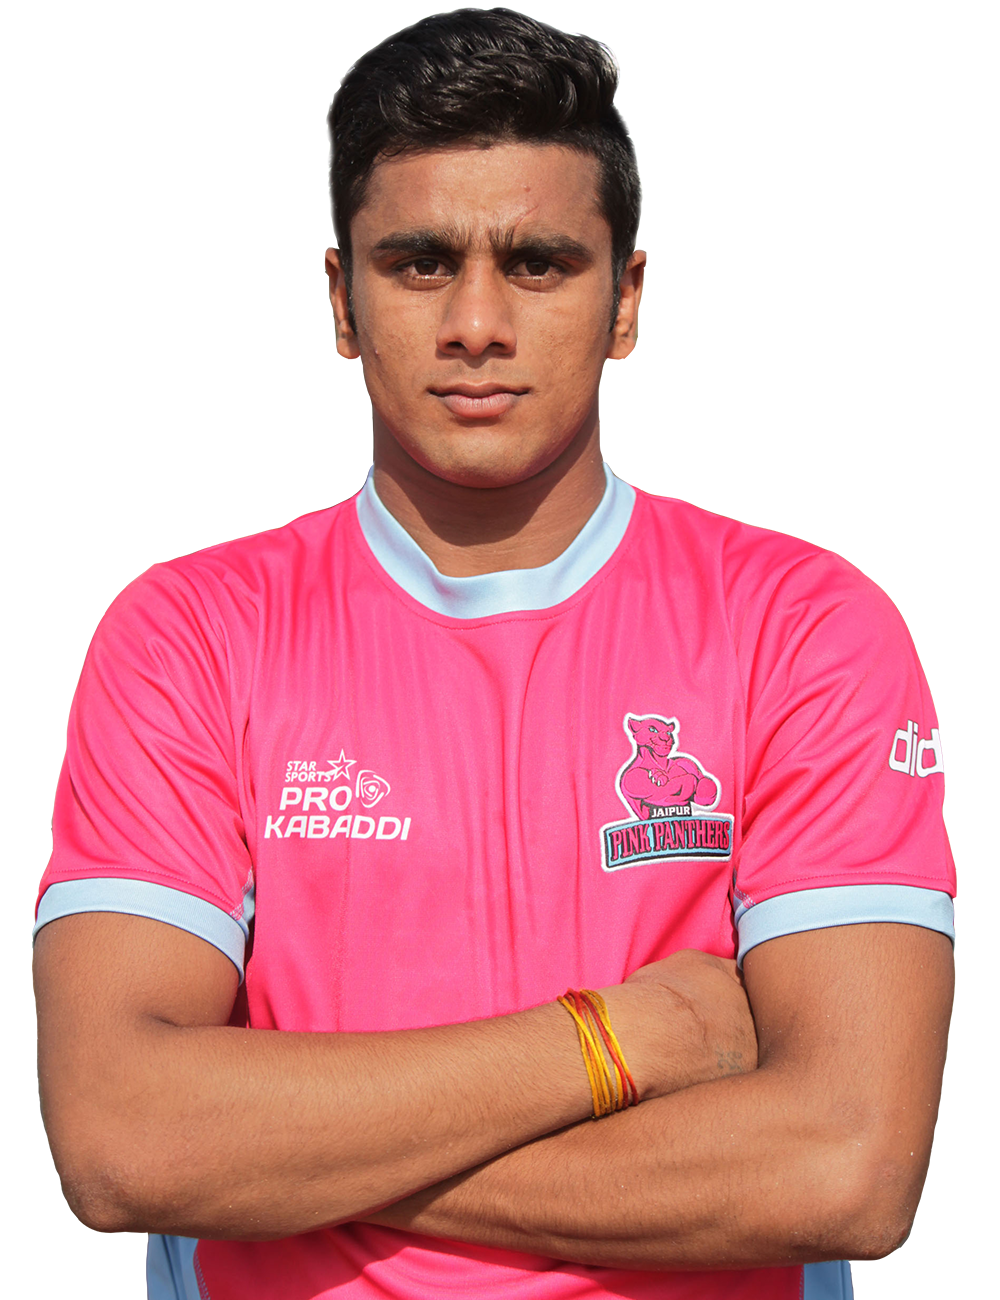
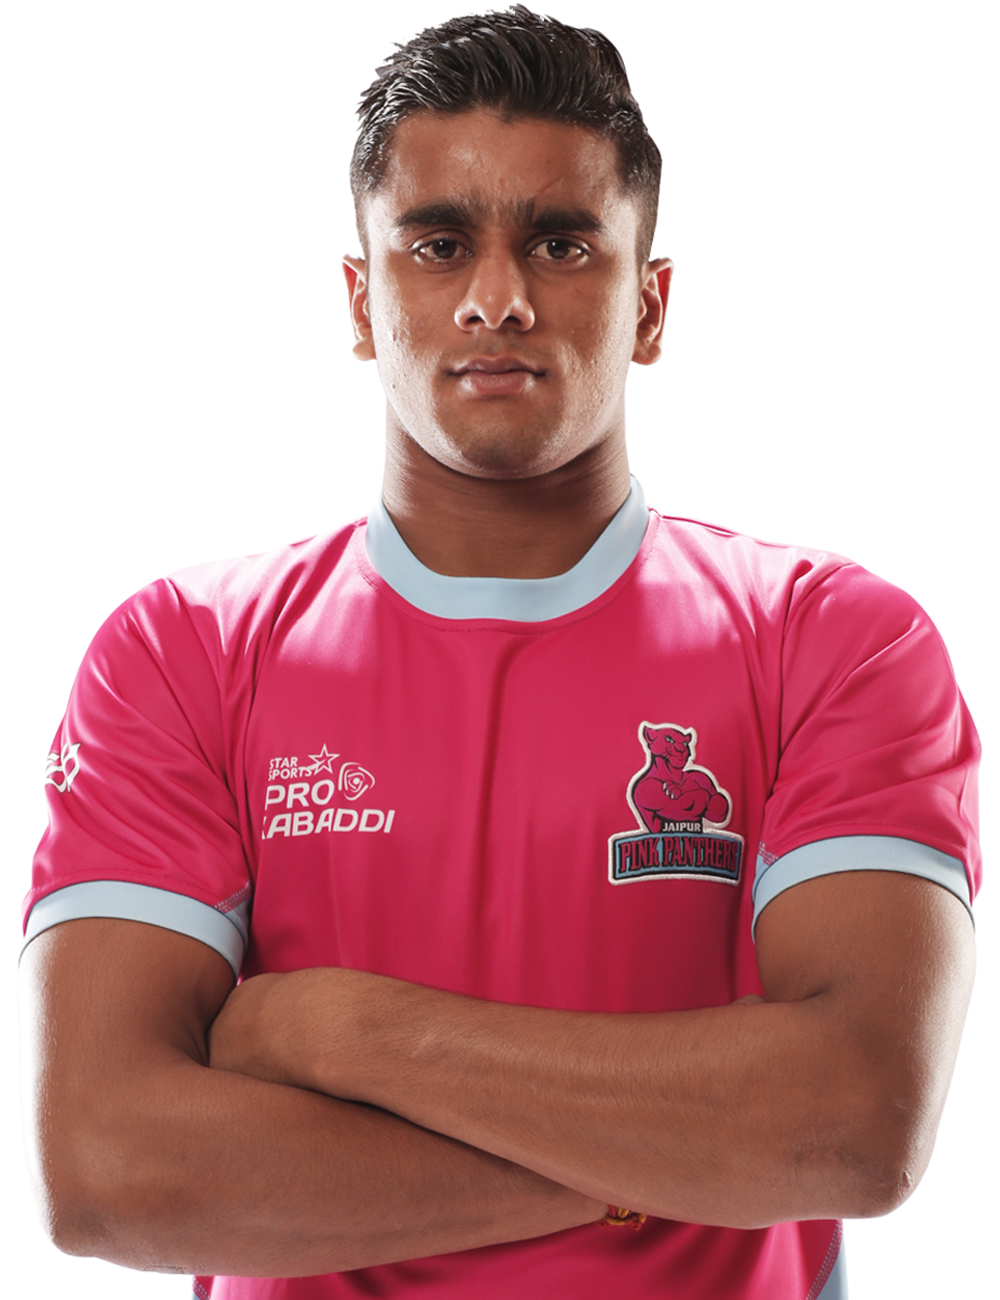
Changes done for image replace and name & state add.

diff --git a/js/language.js b/js/language.js
@@ -75,6 +75,7 @@ var LanguageEnglish = {
   "Defender,Left Corner":"Defender,Left Corner",
   "Defender,Right Corner":"Defender,Right Corner",
   "Native Place":"Native Place",
+  "State":"State",
   "Age":"Age",
   "Jersery Number":"Jersery Number",
   "Tournaments Played":"Tournaments Played",
@@ -281,7 +282,7 @@ var LanguageEnglish = {
 "Quiz Part 2":"Quiz Part 2",
 "Browse through the videos to know more about Jaipur Pink Panthers":"Browse through the videos to know more about Jaipur Pink Panthers",
 "Amit Nagar":"Amit Nagar",
-"Parvesh":"Parvesh",
+"Parvesh Malik":"Parvesh Malik",
 "Parveen Narwal":"Parveen Narwal",
 "David Tsai":"David Tsai",
 "Shabeer Bapu Sharfudheen":"Shabeer Bapu Sharfudheen",
@@ -637,7 +638,7 @@ var LanguageHindi = {
 "Quiz Part 2":"क्विज़ / प्रश्नोत्तरी भाग 2",
 "Browse through the videos to know more about Jaipur Pink Panthers":"वीडियो के माध्यम से जयपुर पिंक पैंथर्स के बारे में और अधिक जानें",
 "Amit Nagar":"अमित नागर",
-"Parvesh":"परवेश",
+"Parvesh Malik":"परवेश मलिक",
 "Parveen Narwal":"परवीन नरवाल",
 "David Tsai":"डेविड त्सय",
 "Shabeer Bapu Sharfudheen":"शब्बीर बापू शरफूद्दीन",
@@ -700,4 +701,5 @@ var LanguageHindi = {
 "2009 All India University(Silver),2013 Senior Nationals(Bronze), 2015 Senior Nationals (Gold), 2016 Federations Cup(Bronze)":"2009 ऑल इंडिया यूनिवर्सिटी (सिल्वर), 2013  सीनियर नेशनल्स (ब्रोंज़), 2015  सीनियर नेशनल्स (गोल्ड), 2016 फ़ेडरेशन कप (ब्रोंज़)",
 "2016 Star Sports Pro Kabaddi semi-finalist team (Puneri Paltan), 2011 U-19 School National Games (Gold), 2012 U-19 School National Games (Silver)":"2016  स्टार स्पोर्ट्स प्रो कबड्डी सेमी-फ़ाइनलिस्ट टीम (पुनेरी पलटन),  2011 अंडर 19 स्कूल नेशनल गेम्स (गोल्ड) ,  2012  अंडर 19 स्कूल नेशनल गेम्स (सिल्वर)",
 "2016 Star Sports Pro Kabaddi Season 3 runners up (U Mumba), 2015 Star Sports Pro Kabaddi Champions (U Mumba), 2015 Japan National Games(Gold)":"2016  स्टार स्पोर्ट्स प्रो कबड्डी सीज़न 3  रनर्स अप  (यू मुंबा ) , 2015  स्टार स्पोर्ट्स प्रो कबड्डी चैम्पियंस (यू मुंबा ), 2015 जापान नेशनल गेम्स (गोल्ड)",
+"State":"राज्य",
 };

diff --git a/js/controllers.js b/js/controllers.js
@@ -1022,7 +1022,7 @@ angular.module('phonecatControllers', ['templateservicemod', 'navigationservice'
         }, {
             name: "Parveen Narwal"
         }, {
-            name: "Parvesh"
+            name: "Parvesh Malik"
         }, {
             name: "Rajesh Narwal"
         }, {
@@ -1151,7 +1151,7 @@ angular.module('phonecatControllers', ['templateservicemod', 'navigationservice'
 
         }, {
             image: "img/player/p22.png",
-            name: "Parvesh",
+            name: "Parvesh Malik",
             desg: "Defender",
             nationality: "Haryana",
             dob: "19",

diff --git a/views/modal/player-slider.html b/views/modal/player-slider.html
@@ -20,7 +20,7 @@
           <div class="player-data custom-list">
             <ul class="ul-border">
               <li class="li-info">
-                <span class="label label-nation">{{'Native Place'|translate}}:</span> {{dataitem.nationality|translate}}</li>
+                <span class="label label-nation">{{'State'|translate}}:</span> {{dataitem.nationality|translate}}</li>
               <li class="li-info">
                 <span class="label label-nation">{{'Age'|translate}}:</span>{{dataitem.dob|translate}}</li>
               <li class="li-info">
